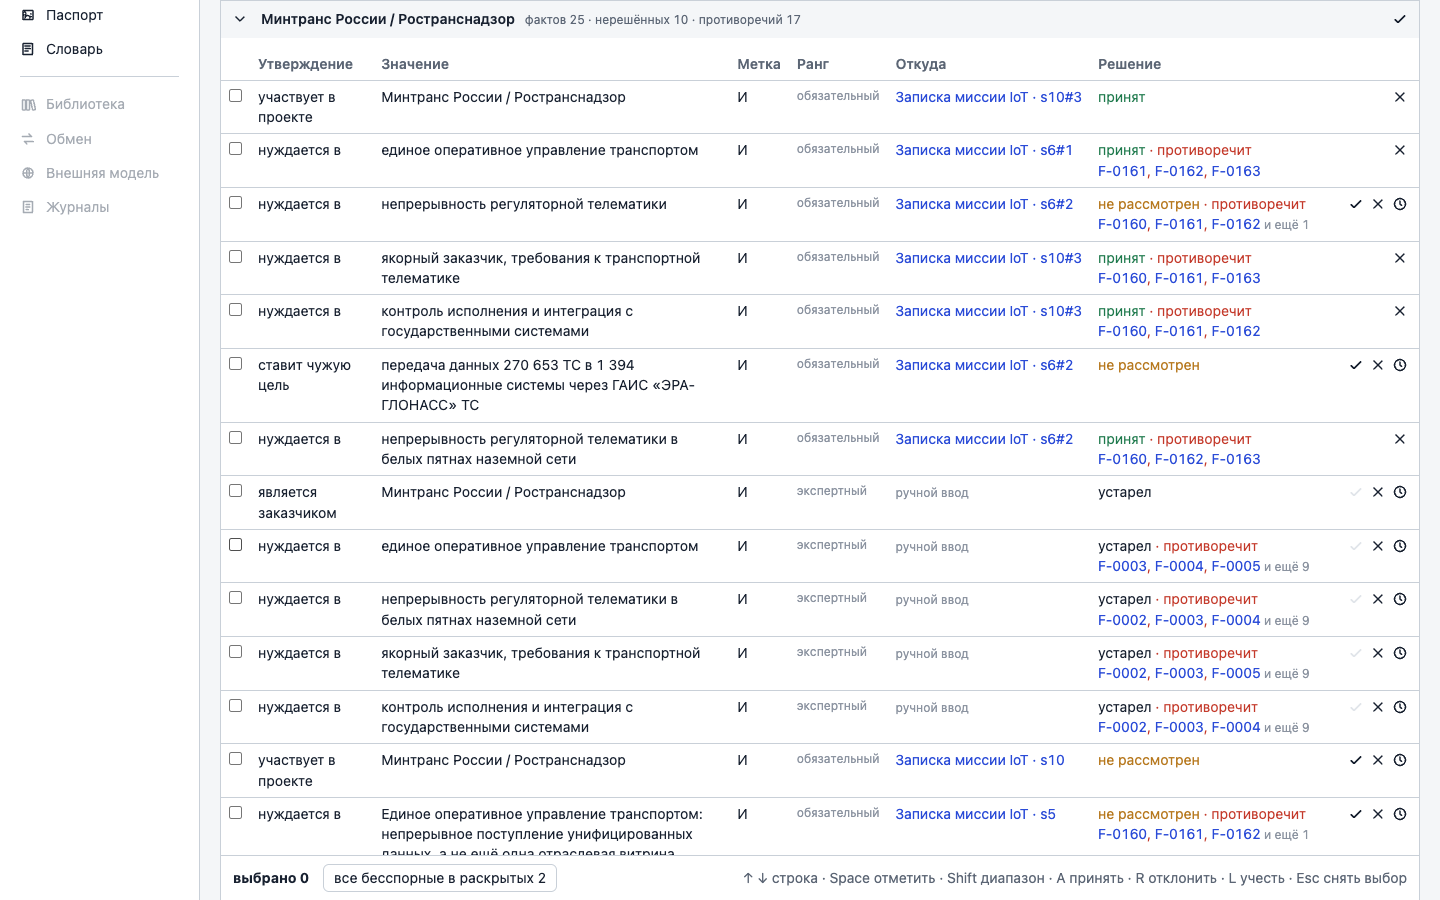
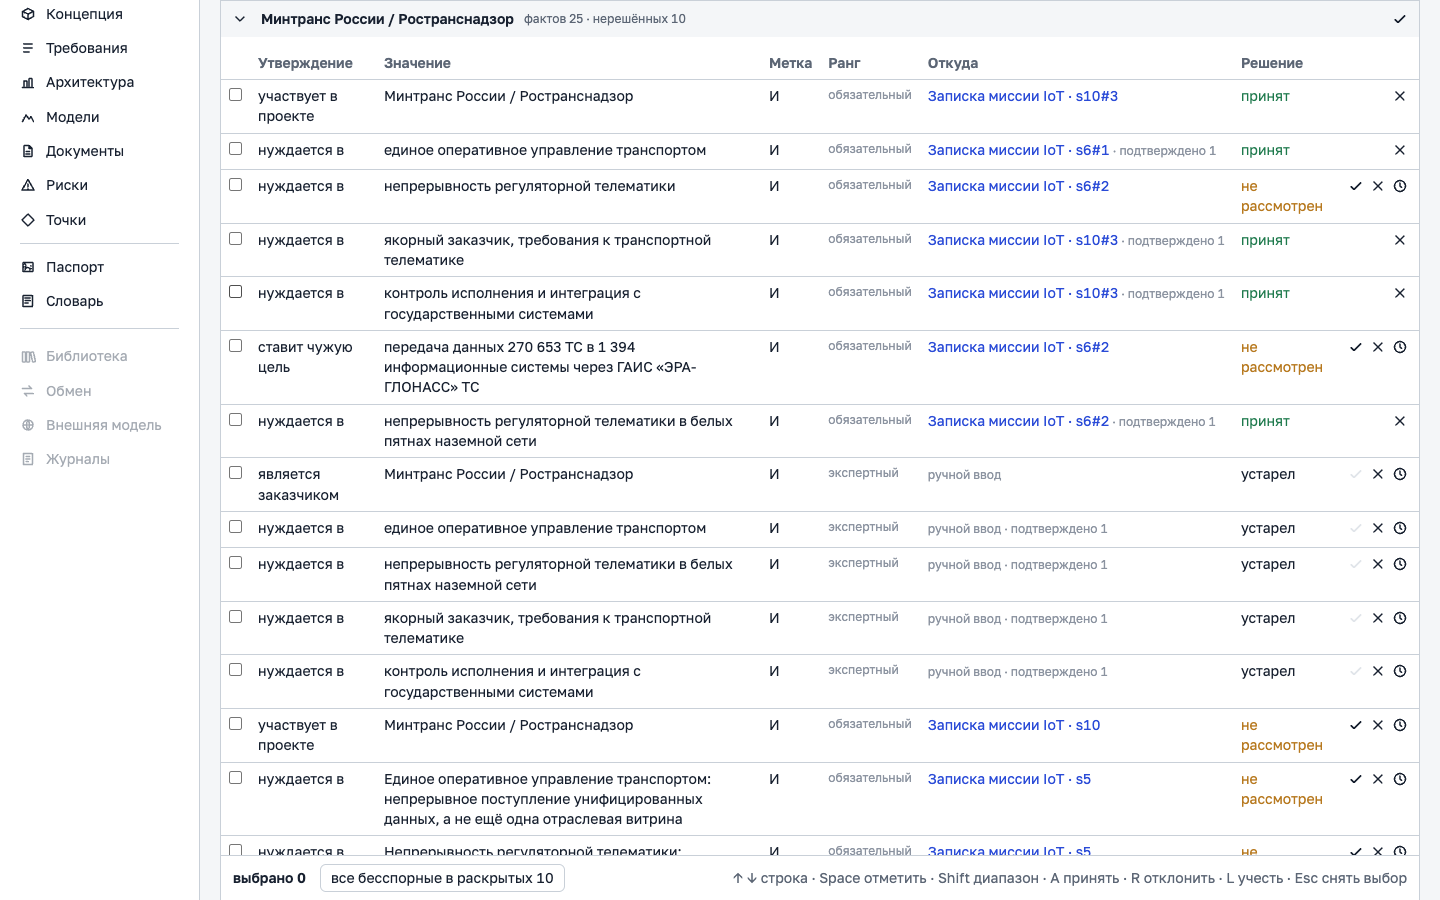
Снимки: --tab открывает вкладку раздела перед полосой; полоса фактов после пересчёта противоречий
tools/snap_screens.py --tab «Раздел=вкладка» (Поле знаний=Факты): у раздела
с вкладками полосы фактов живут не на первой вкладке. Снимок
«поле-знаний~полоса» (руководитель, 1440) после пересчёта на копии ПМИ-7:
у Минтранса «фактов 25 · нерешённых 10» — противоречий нет, у фактов с тем
же значением в другом документе — «подтверждено 1».

diff --git a/tools/snap_screens.py b/tools/snap_screens.py
@@ -79,6 +79,7 @@ def снять(args) -> pathlib.Path:
         # «Раздел=имя кнопки»: открыть кнопкой (документ из комплекта) и снять открытое.
         "open": dict(п.split("=", 1) for п in args.open.split(",")) if args.open else {},
         "scroll": dict(п.split("=", 1) for п in args.scroll.split(";")) if args.scroll else {},
+        "tab": dict(п.split("=", 1) for п in args.tab.split(",")) if args.tab else {},
     }
     with tempfile.NamedTemporaryFile("w", suffix=".json", delete=False, encoding="utf-8") as f:
         json.dump(план, f, ensure_ascii=False)
@@ -183,6 +184,7 @@ def main() -> int:
     с.add_argument("--scenes", default=None, help="сцены работы, каждая своим снимком: 3,4,5,6")
     с.add_argument("--band", default=None, help="разделы, у которых снимается первая полоса группы раскрытой")
     с.add_argument("--open", default=None, help="«Раздел=имя кнопки»: открыть кнопкой и снять, например Документы=открыть документ")
+    с.add_argument("--tab", default=None, help="«Раздел=вкладка»: перед полосой и карточкой открыть вкладку раздела (Поле знаний=Факты)")
     с.add_argument("--scroll", default=None, help="«Раздел=селектор» через «;»: к чему прокрутить снимок «открыто» (замечания точки)")
     с.add_argument("--widths", default=None, help="1440,1280")
     с.add_argument("--expert", action="store_true", help="с --sections: снимать и эксперт-разделы из списка")
